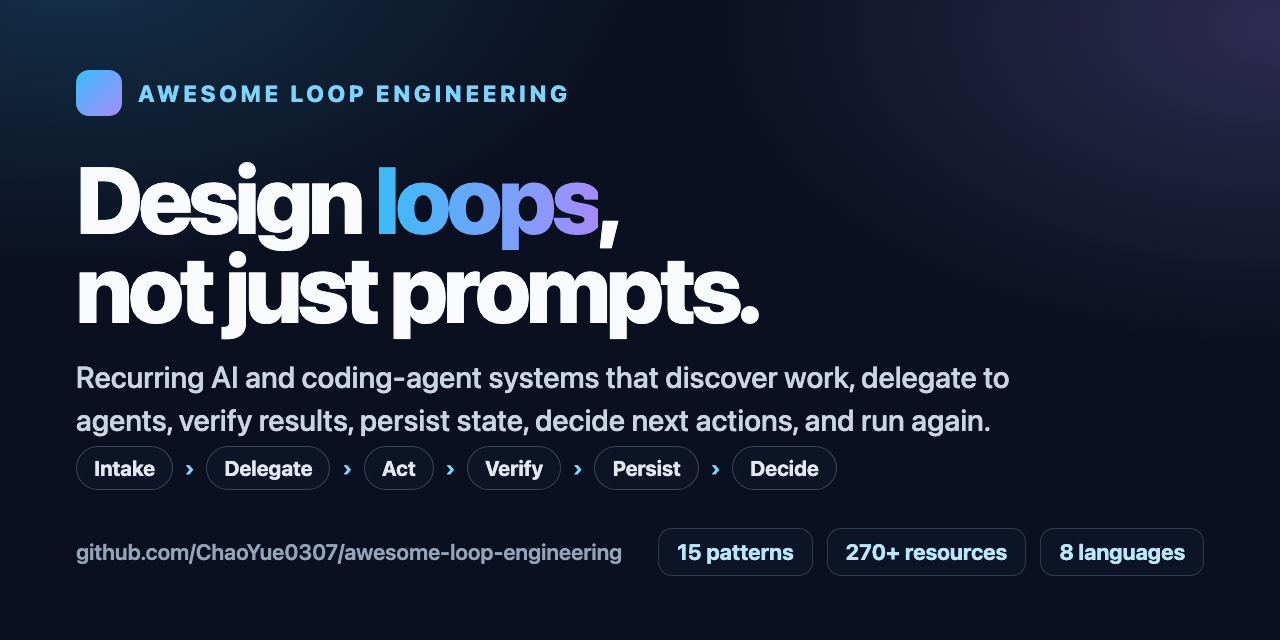
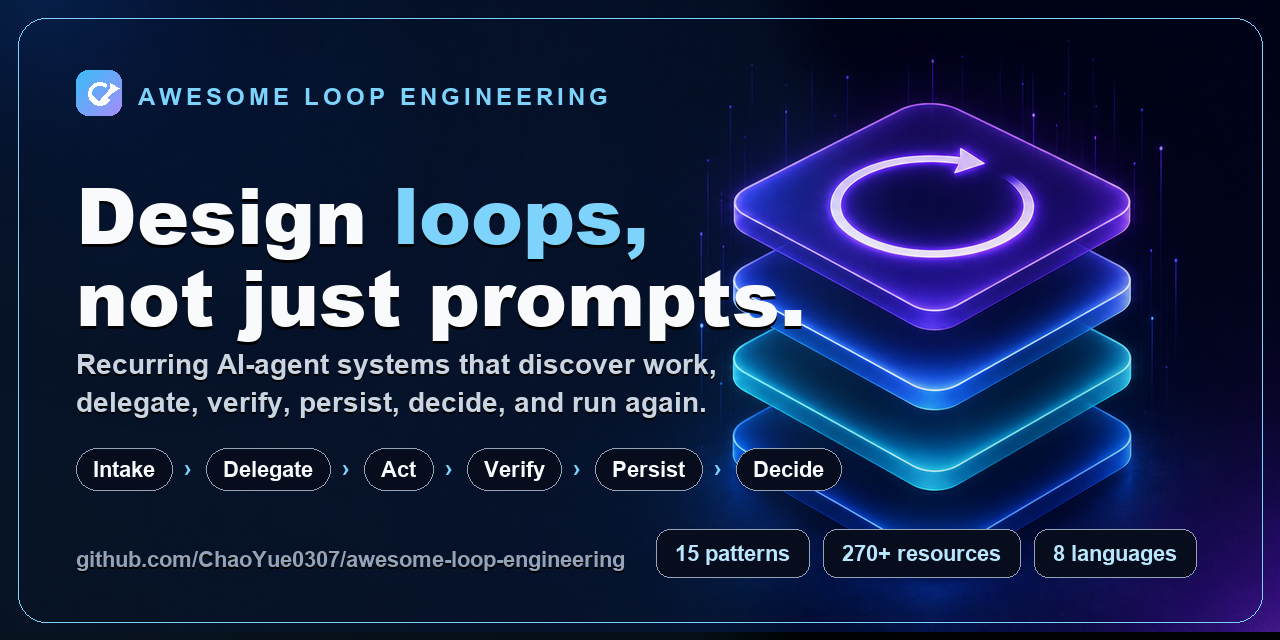
Refresh social preview cover

diff --git a/docs/index.html b/docs/index.html
@@ -12,11 +12,11 @@
     <meta property="og:title" content="Awesome Loop Engineering">
     <meta property="og:description" content="Curated resources, patterns, examples, schema, and field guides for recurring AI-agent systems.">
     <meta property="og:url" content="https://chaoyue0307.github.io/awesome-loop-engineering/">
-    <meta property="og:image" content="https://raw.githubusercontent.com/ChaoYue0307/awesome-loop-engineering/main/assets/awesome-loop-engineering-cover.png">
+    <meta property="og:image" content="https://raw.githubusercontent.com/ChaoYue0307/awesome-loop-engineering/main/assets/social-preview.png">
     <meta name="twitter:card" content="summary_large_image">
     <meta name="twitter:title" content="Awesome Loop Engineering">
     <meta name="twitter:description" content="A field guide for designing recurring AI-agent systems above prompt, context, and harness engineering.">
-    <meta name="twitter:image" content="https://raw.githubusercontent.com/ChaoYue0307/awesome-loop-engineering/main/assets/awesome-loop-engineering-cover.png">
+    <meta name="twitter:image" content="https://raw.githubusercontent.com/ChaoYue0307/awesome-loop-engineering/main/assets/social-preview.png">
     <style>
       :root {
         color-scheme: dark;

diff --git a/assets/README.md b/assets/README.md
@@ -2,11 +2,11 @@
 
 This directory contains visual assets used by the repository README, GitHub Pages landing page, and social previews.
 
-- `awesome-loop-engineering-cover.png` - Wide social and README cover image. It visualizes the Prompt, Context, Harness, and Loop stack.
+- `awesome-loop-engineering-cover.png` - Original wide cover image. It visualizes the Prompt, Context, Harness, and Loop stack.
 - `awesome-loop-engineering-logo.svg` - Logo mark for the README, Hugging Face repo card, and GitHub Pages header.
 - `loop-engineering-stack.svg` - Lightweight stack diagram showing how Loop Engineering sits above prompt, context, and harness engineering.
 - `loop-contract-cards.svg` - Visual card grid for the Loop Contract: objective, trigger, intake, workspace, context, delegation, verification, state, budget, escalation, and exit.
 - `loop-lifecycle.svg` - One pass of a recurring loop: Intake, Delegate, Act, Verify, Persist, and Decide, where Decide retries, escalates, or exits.
-- `social-preview.png` - 1280x640 card for the GitHub social preview (Settings, Social preview) and link sharing.
+- `social-preview.png` - 1280x640 ChatGPT Image-based card for the README, Hugging Face repo card, GitHub social preview (Settings, Social preview), and link sharing.
 
 Please keep assets lightweight and directly useful for repository presentation. Avoid adding screenshots or large generated files unless they improve the README or documentation experience.

diff --git a/README.md b/README.md
@@ -1,5 +1,5 @@
 <p align="center">
-  <img src="assets/awesome-loop-engineering-cover.png" alt="Awesome Loop Engineering cover" width="100%">
+  <img src="assets/social-preview.png" alt="Awesome Loop Engineering social preview cover" width="100%">
 </p>
 
 <h1 align="center">Awesome Loop Engineering</h1>
